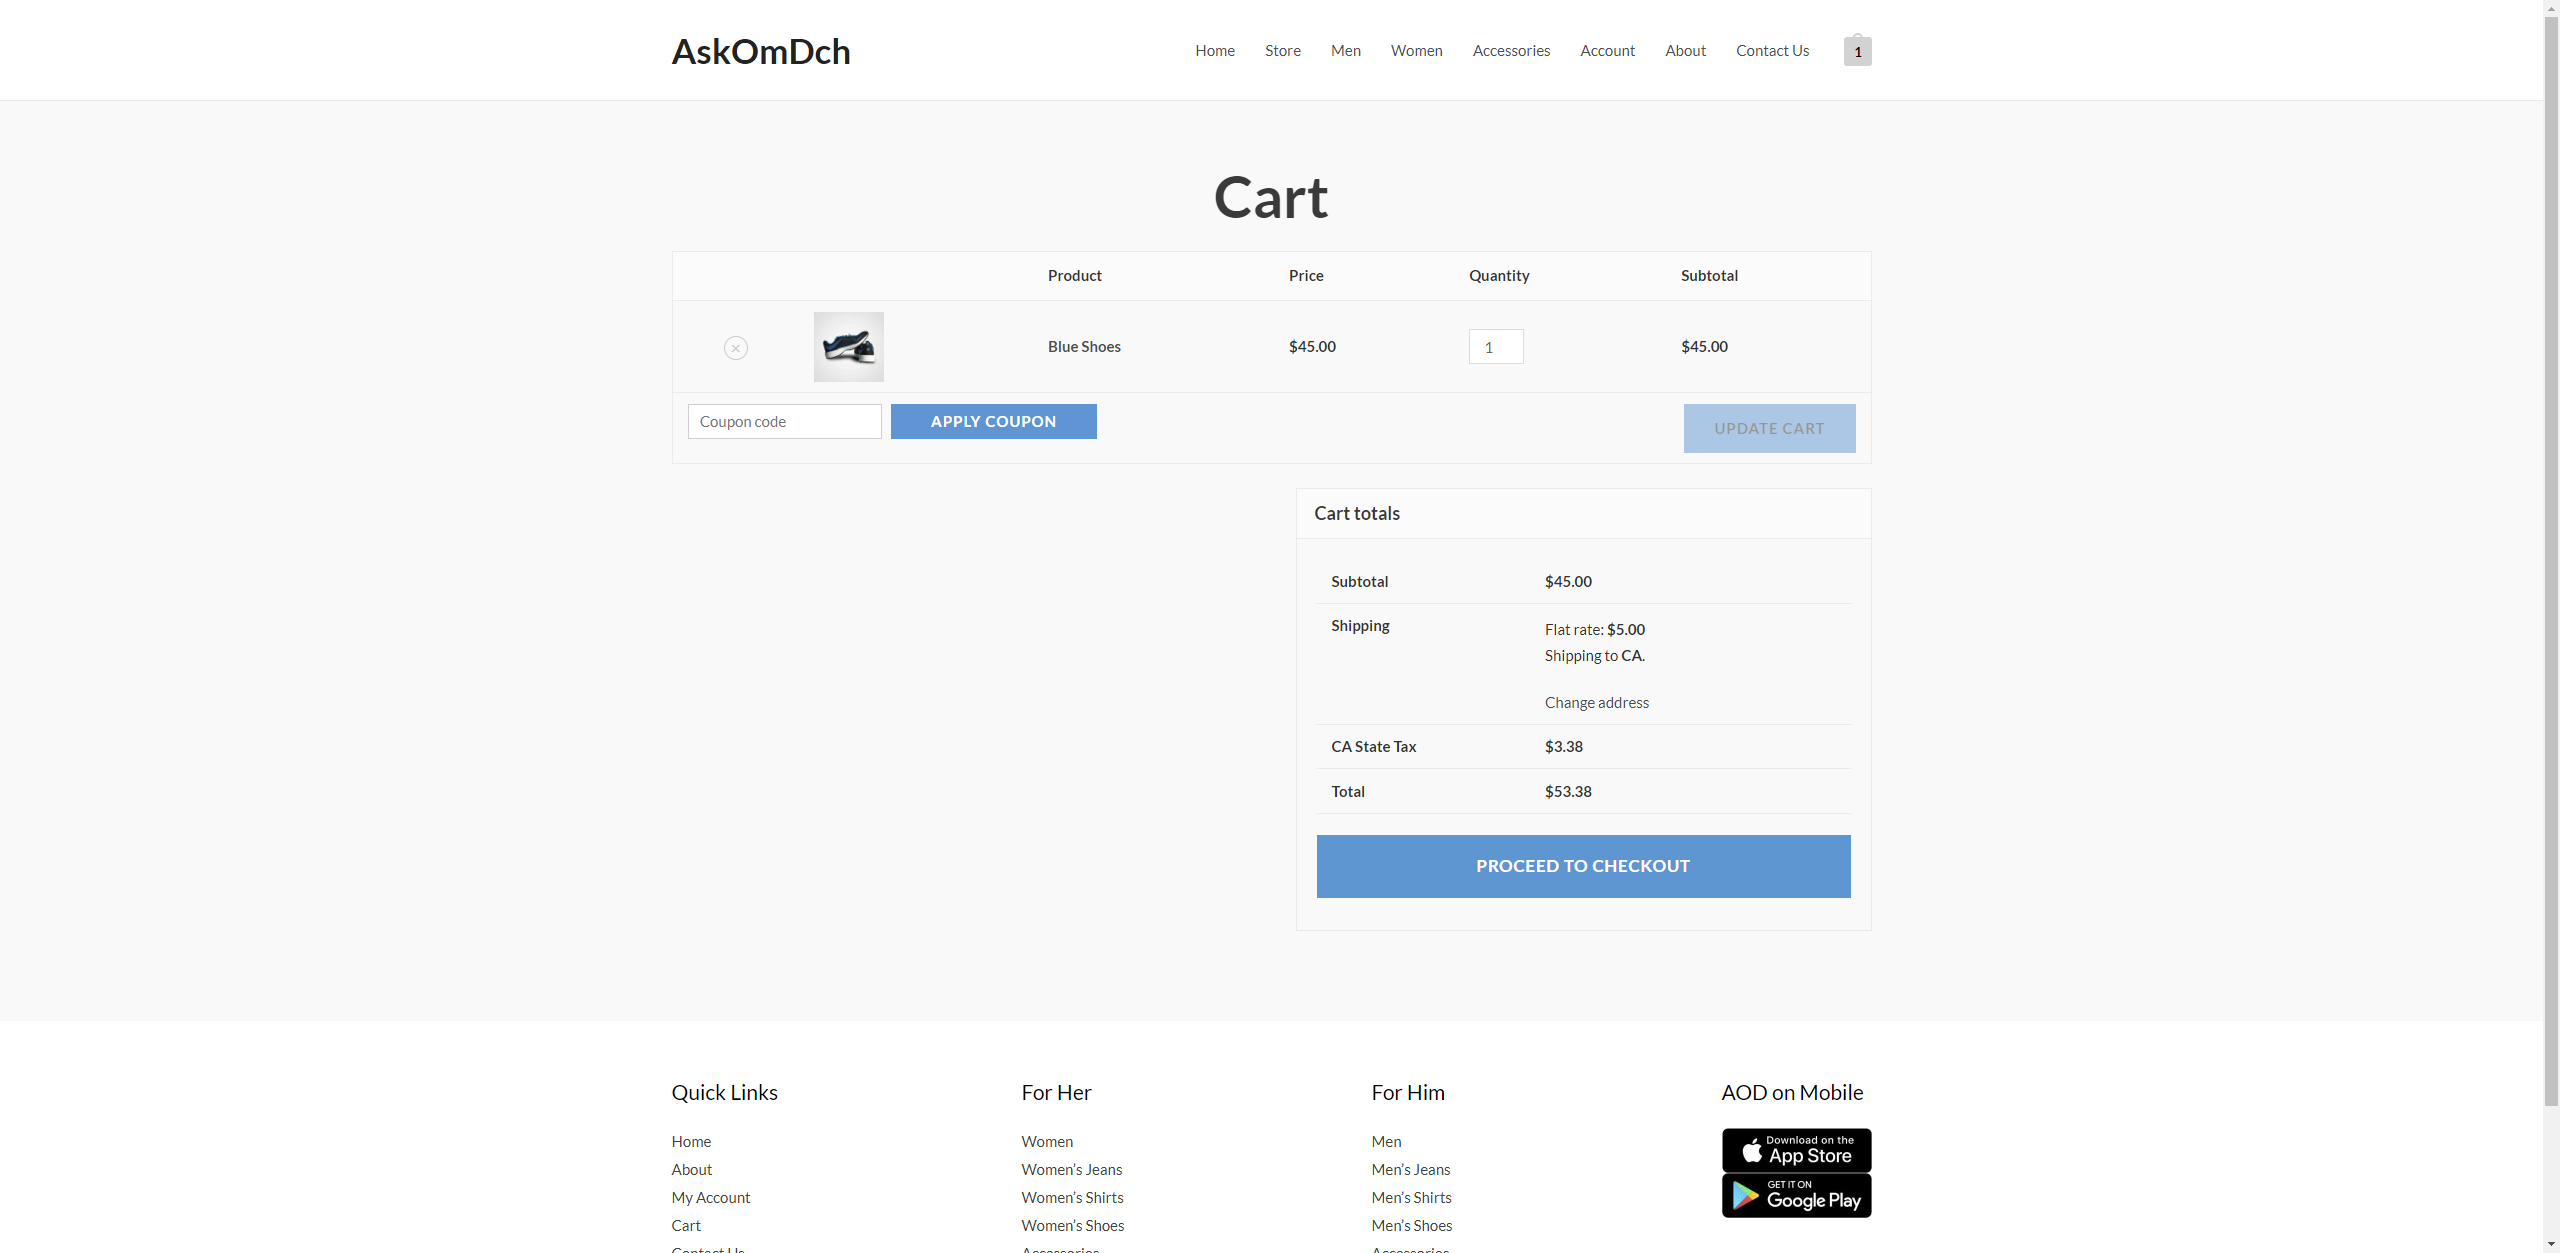
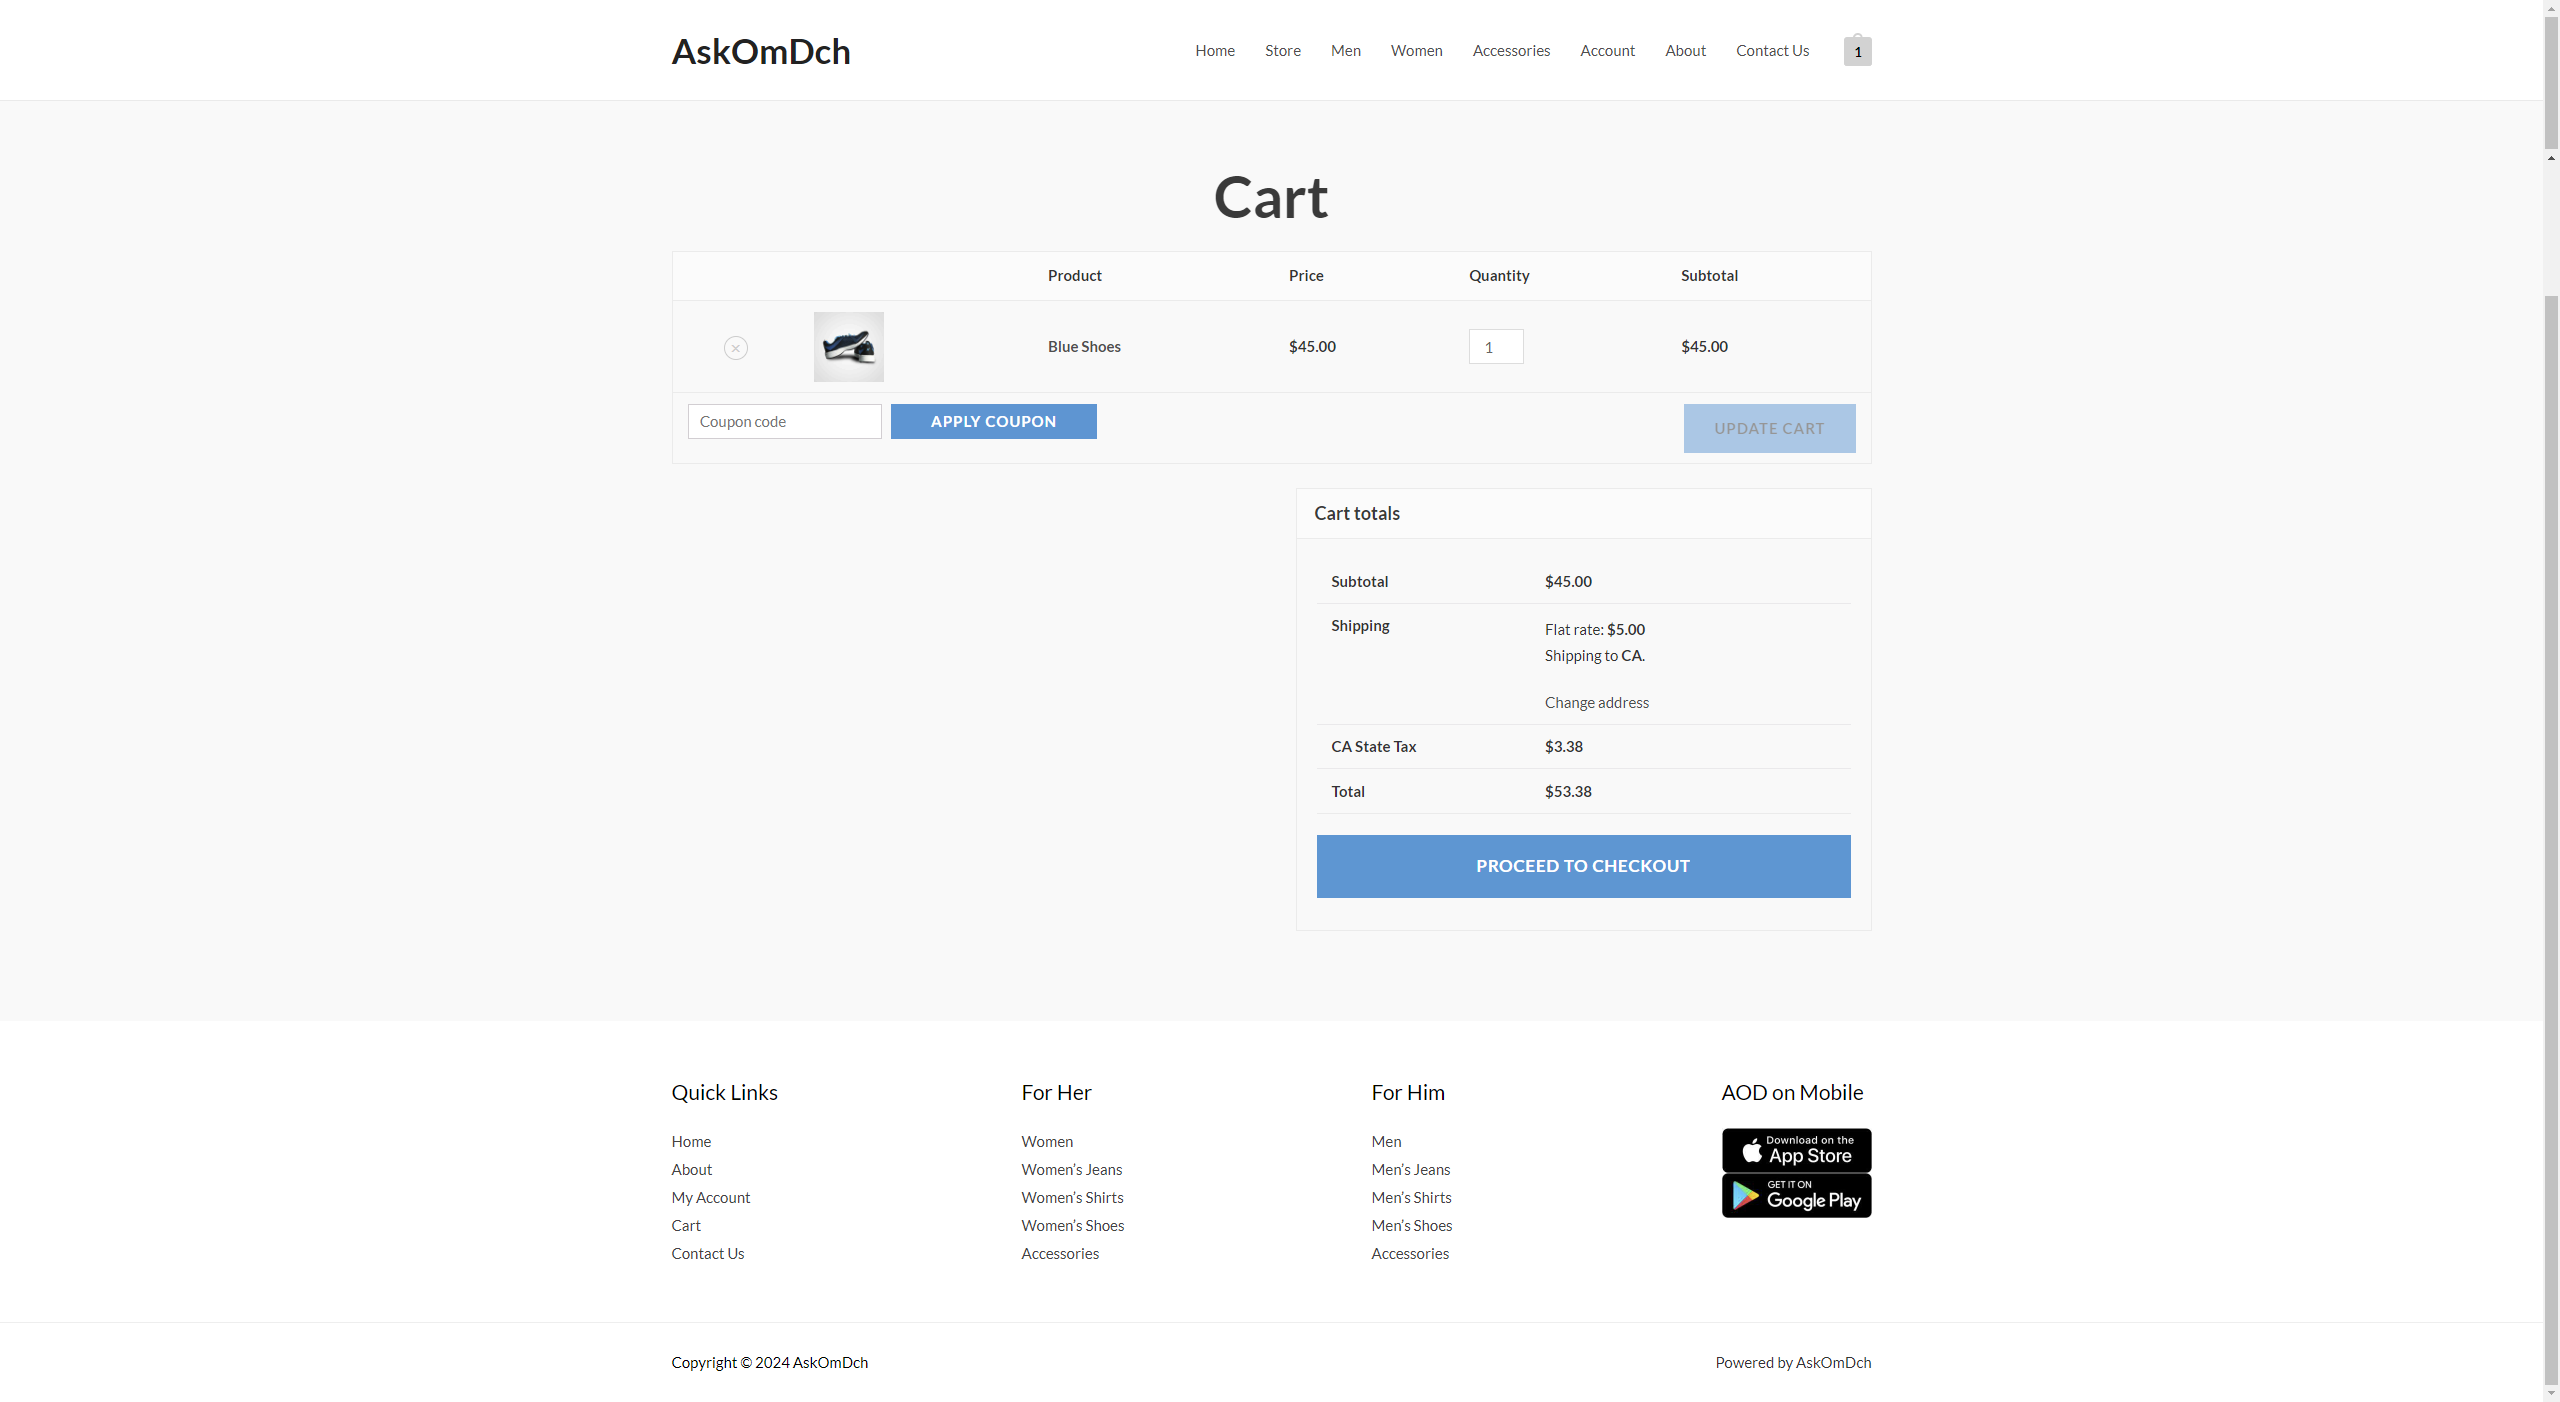
takeScreenshotUsingAshot method created and implemented in BaseTest class (Second iteration)

diff --git a/src/test/java/org/selenium/pom/base/BaseTest.java b/src/test/java/org/selenium/pom/base/BaseTest.java
@@ -13,7 +13,11 @@ import org.selenium.pom.factory.abstractFactory.DriverManagerFactoryAbstract;
 import org.selenium.pom.utils.CookieUtils;
 import org.testng.ITestResult;
 import org.testng.annotations.*;
+import ru.yandex.qatools.ashot.AShot;
+import ru.yandex.qatools.ashot.Screenshot;
+import ru.yandex.qatools.ashot.shooting.ShootingStrategies;
 
+import javax.imageio.ImageIO;
 import java.io.File;
 import java.io.IOException;
 import java.util.List;
@@ -41,7 +45,8 @@ public class BaseTest {
         if (result.getStatus() == ITestResult.FAILURE) {
             File destFile = new File("screenshots" + File.separator + browser + File.separator +
                     result.getTestClass().getRealClass().getSimpleName() + "_" + result.getMethod().getMethodName() + ".png");
-            takeScreenshot(destFile);
+//            takeScreenshot(destFile);
+            takeScreenshotUsingAshot(destFile);
         }
         getDriverManager().getDriver().quit();
     }
@@ -78,5 +83,16 @@ public class BaseTest {
         TakesScreenshot takesScreenshot = (TakesScreenshot) getDriver();
         File srcFile = takesScreenshot.getScreenshotAs(OutputType.FILE);
         FileUtils.copyFile(srcFile, destFile);
+    }
+
+    private void takeScreenshotUsingAshot(File destFile) {
+        Screenshot screenshot = new AShot()
+                .shootingStrategy(ShootingStrategies.viewportPasting(100))
+                .takeScreenshot(getDriver());
+        try {
+            ImageIO.write(screenshot.getImage(), "PNG", destFile);
+        } catch (IOException e) {
+            e.printStackTrace();
+        }
     }
 }
